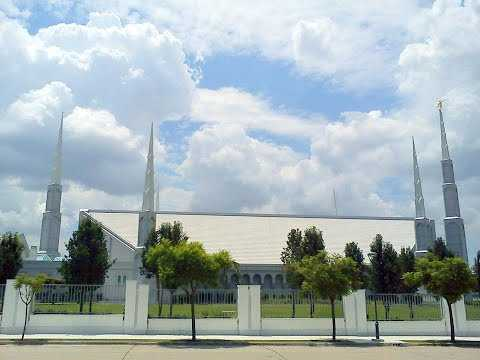
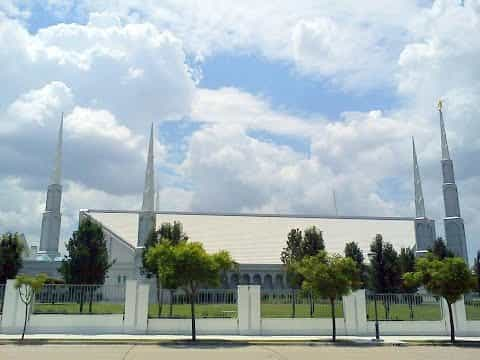
images resiced for lower kb

diff --git a/temples.html b/temples.html
@@ -34,15 +34,15 @@
 
     <main>
         <h1>Home</h1>
-        <figure><img src="images/torontoTemple1.jpeg" alt="toronto temple front view"></figure>
+        <figure><img src="images/torontoTemple1.jpg" alt="toronto temple front view"></figure>
         <figure><img src="images/torontoTemple2.jpg" alt="toronto temple far view"></figure>
         <figure><img src="images/torontoTemple3.jpg" alt="toronto temple night view"></figure>
-        <figure><img src="images/buenosAiresTemple1.jpeg" alt="Buenos Aires hight view"></figure>
-        <figure><img src="images/BUenosAiresTemple2.jpeg" alt="Buenos Aires temple front view"></figure>
+        <figure><img src="images/buenosAiresTemple1.jpg" alt="Buenos Aires hight view"></figure>
+        <figure><img src="images/BUenosAiresTemple2.jpg" alt="Buenos Aires temple front view"></figure>
         <figure><img src="images/buenosAiresTemple3.jpg" alt="Buenos Aires temple side view"></figure>
         <figure><img src="images/templeSantiago1.jpg" alt="Santiago temple hight view"></figure>
-        <figure><img src="images/temploSantiago2.jpeg" alt="Santiago temple night view"></figure>
-        <figure><img src="images/templeSantiago3.jpeg" alt="Santiago temple nature view"></figure>
+        <figure><img src="images/temploSantiago2.jpg" alt="Santiago temple night view"></figure>
+        <figure><img src="images/templeSantiago3.jpg" alt="Santiago temple nature view"></figure>
     </main>
 
     <footer>
